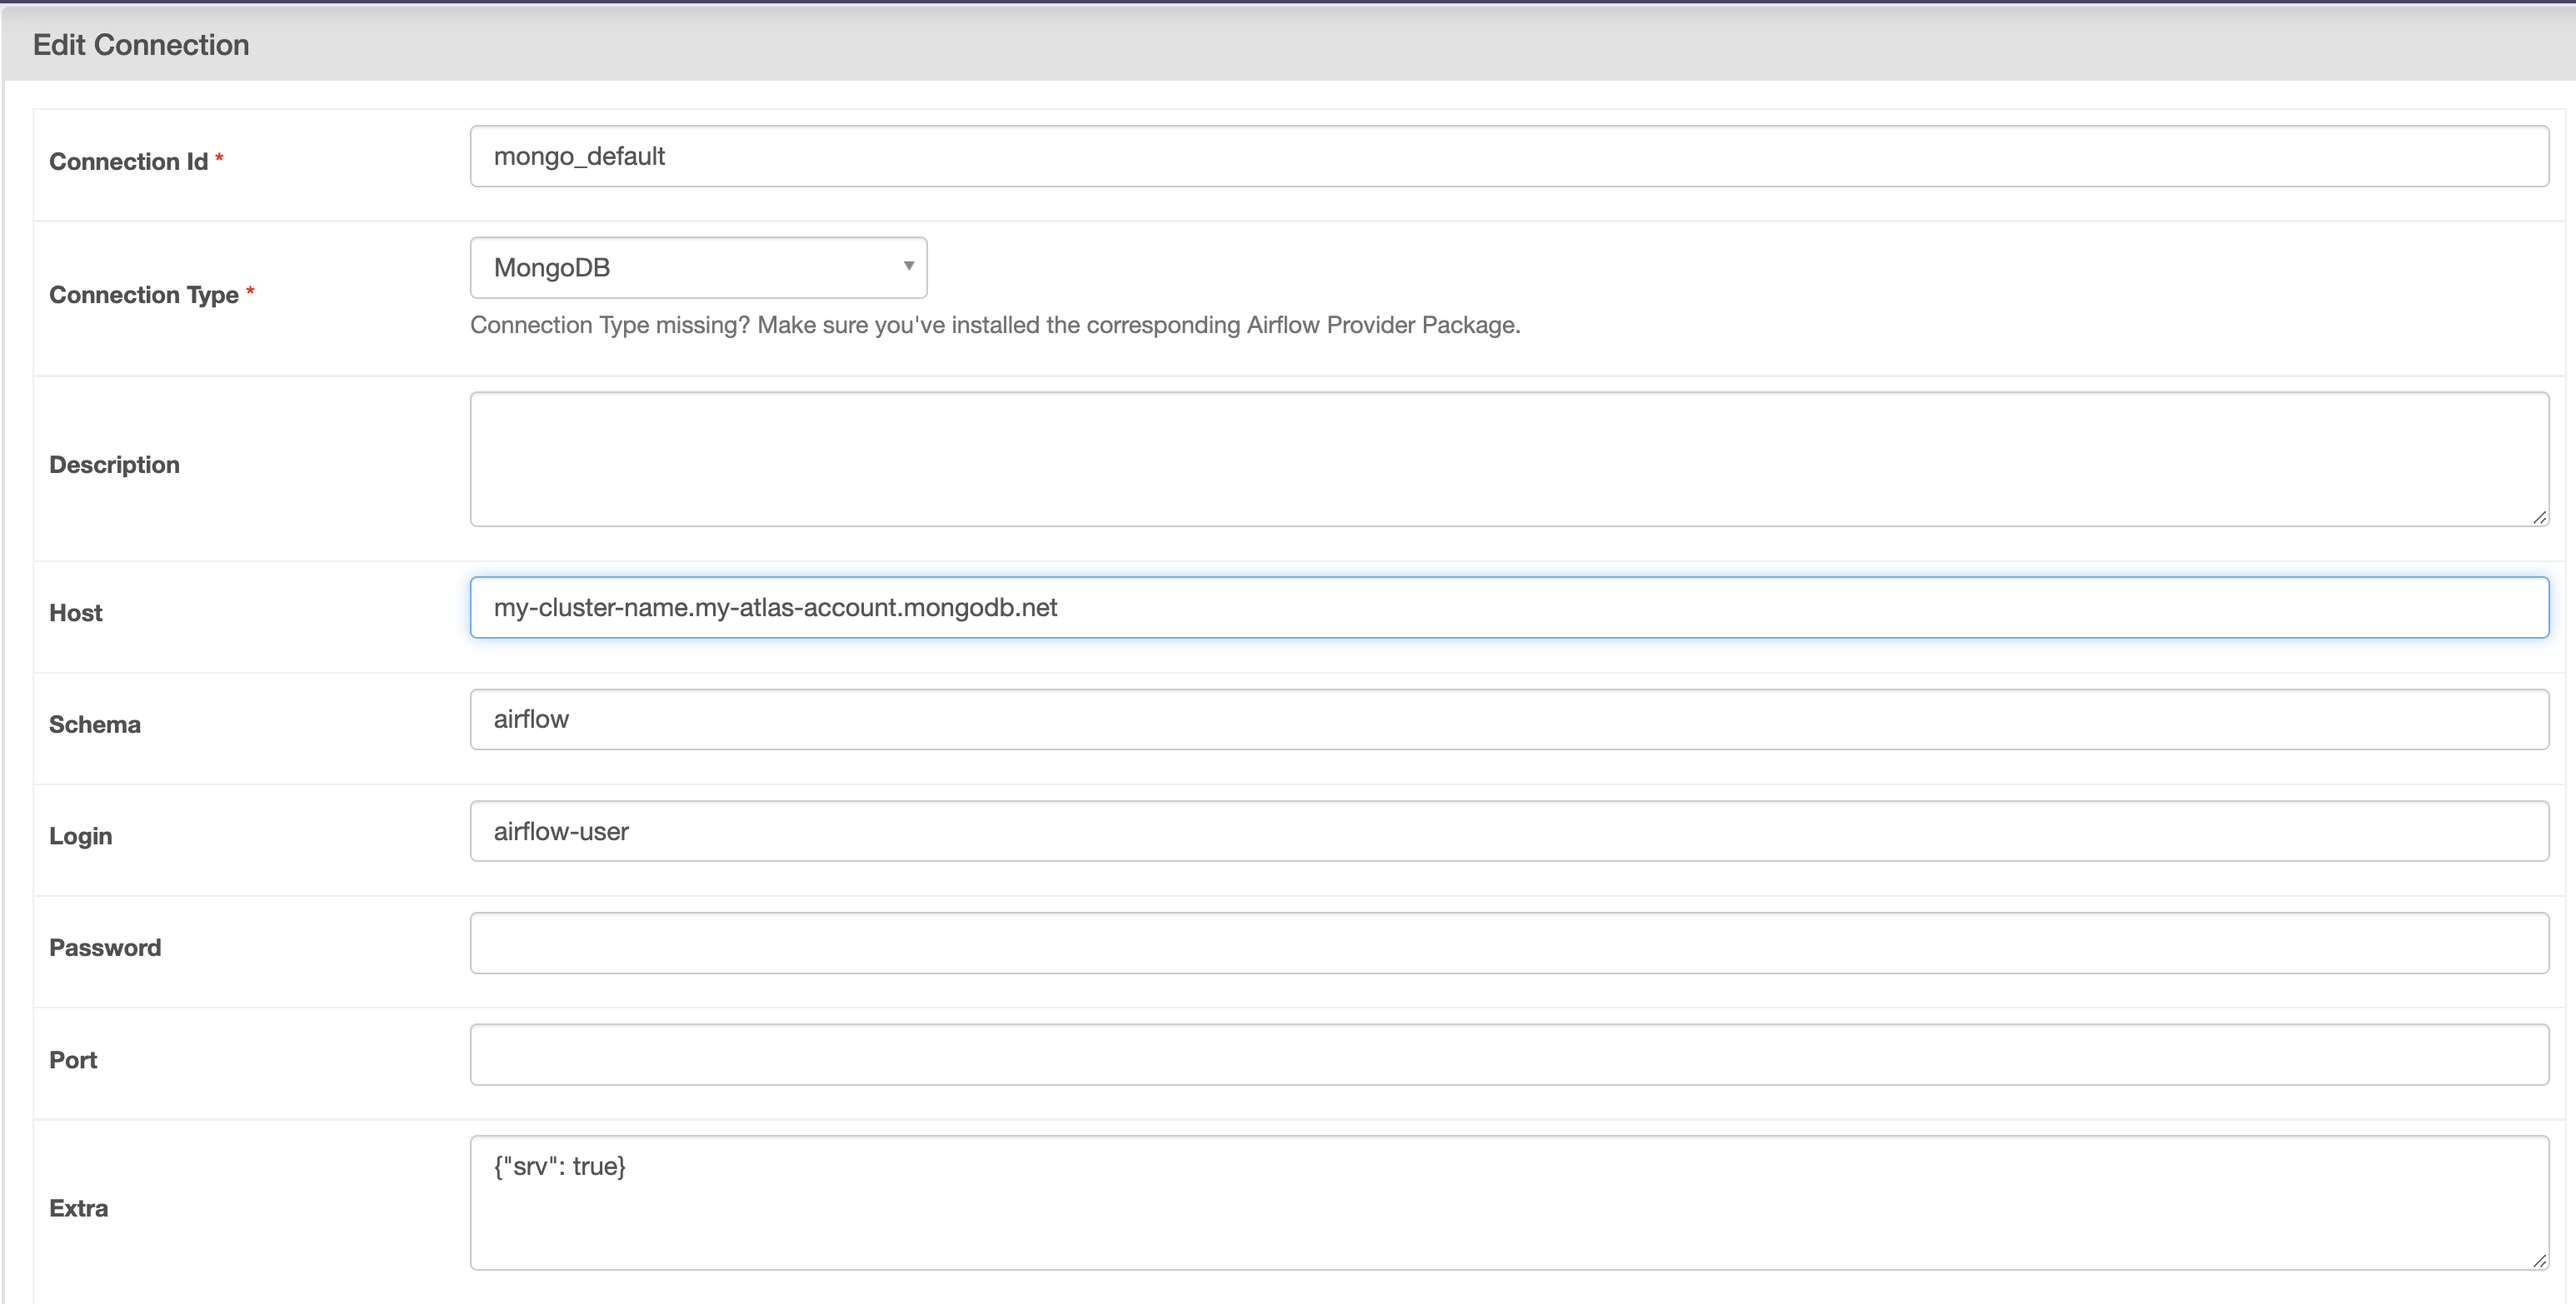
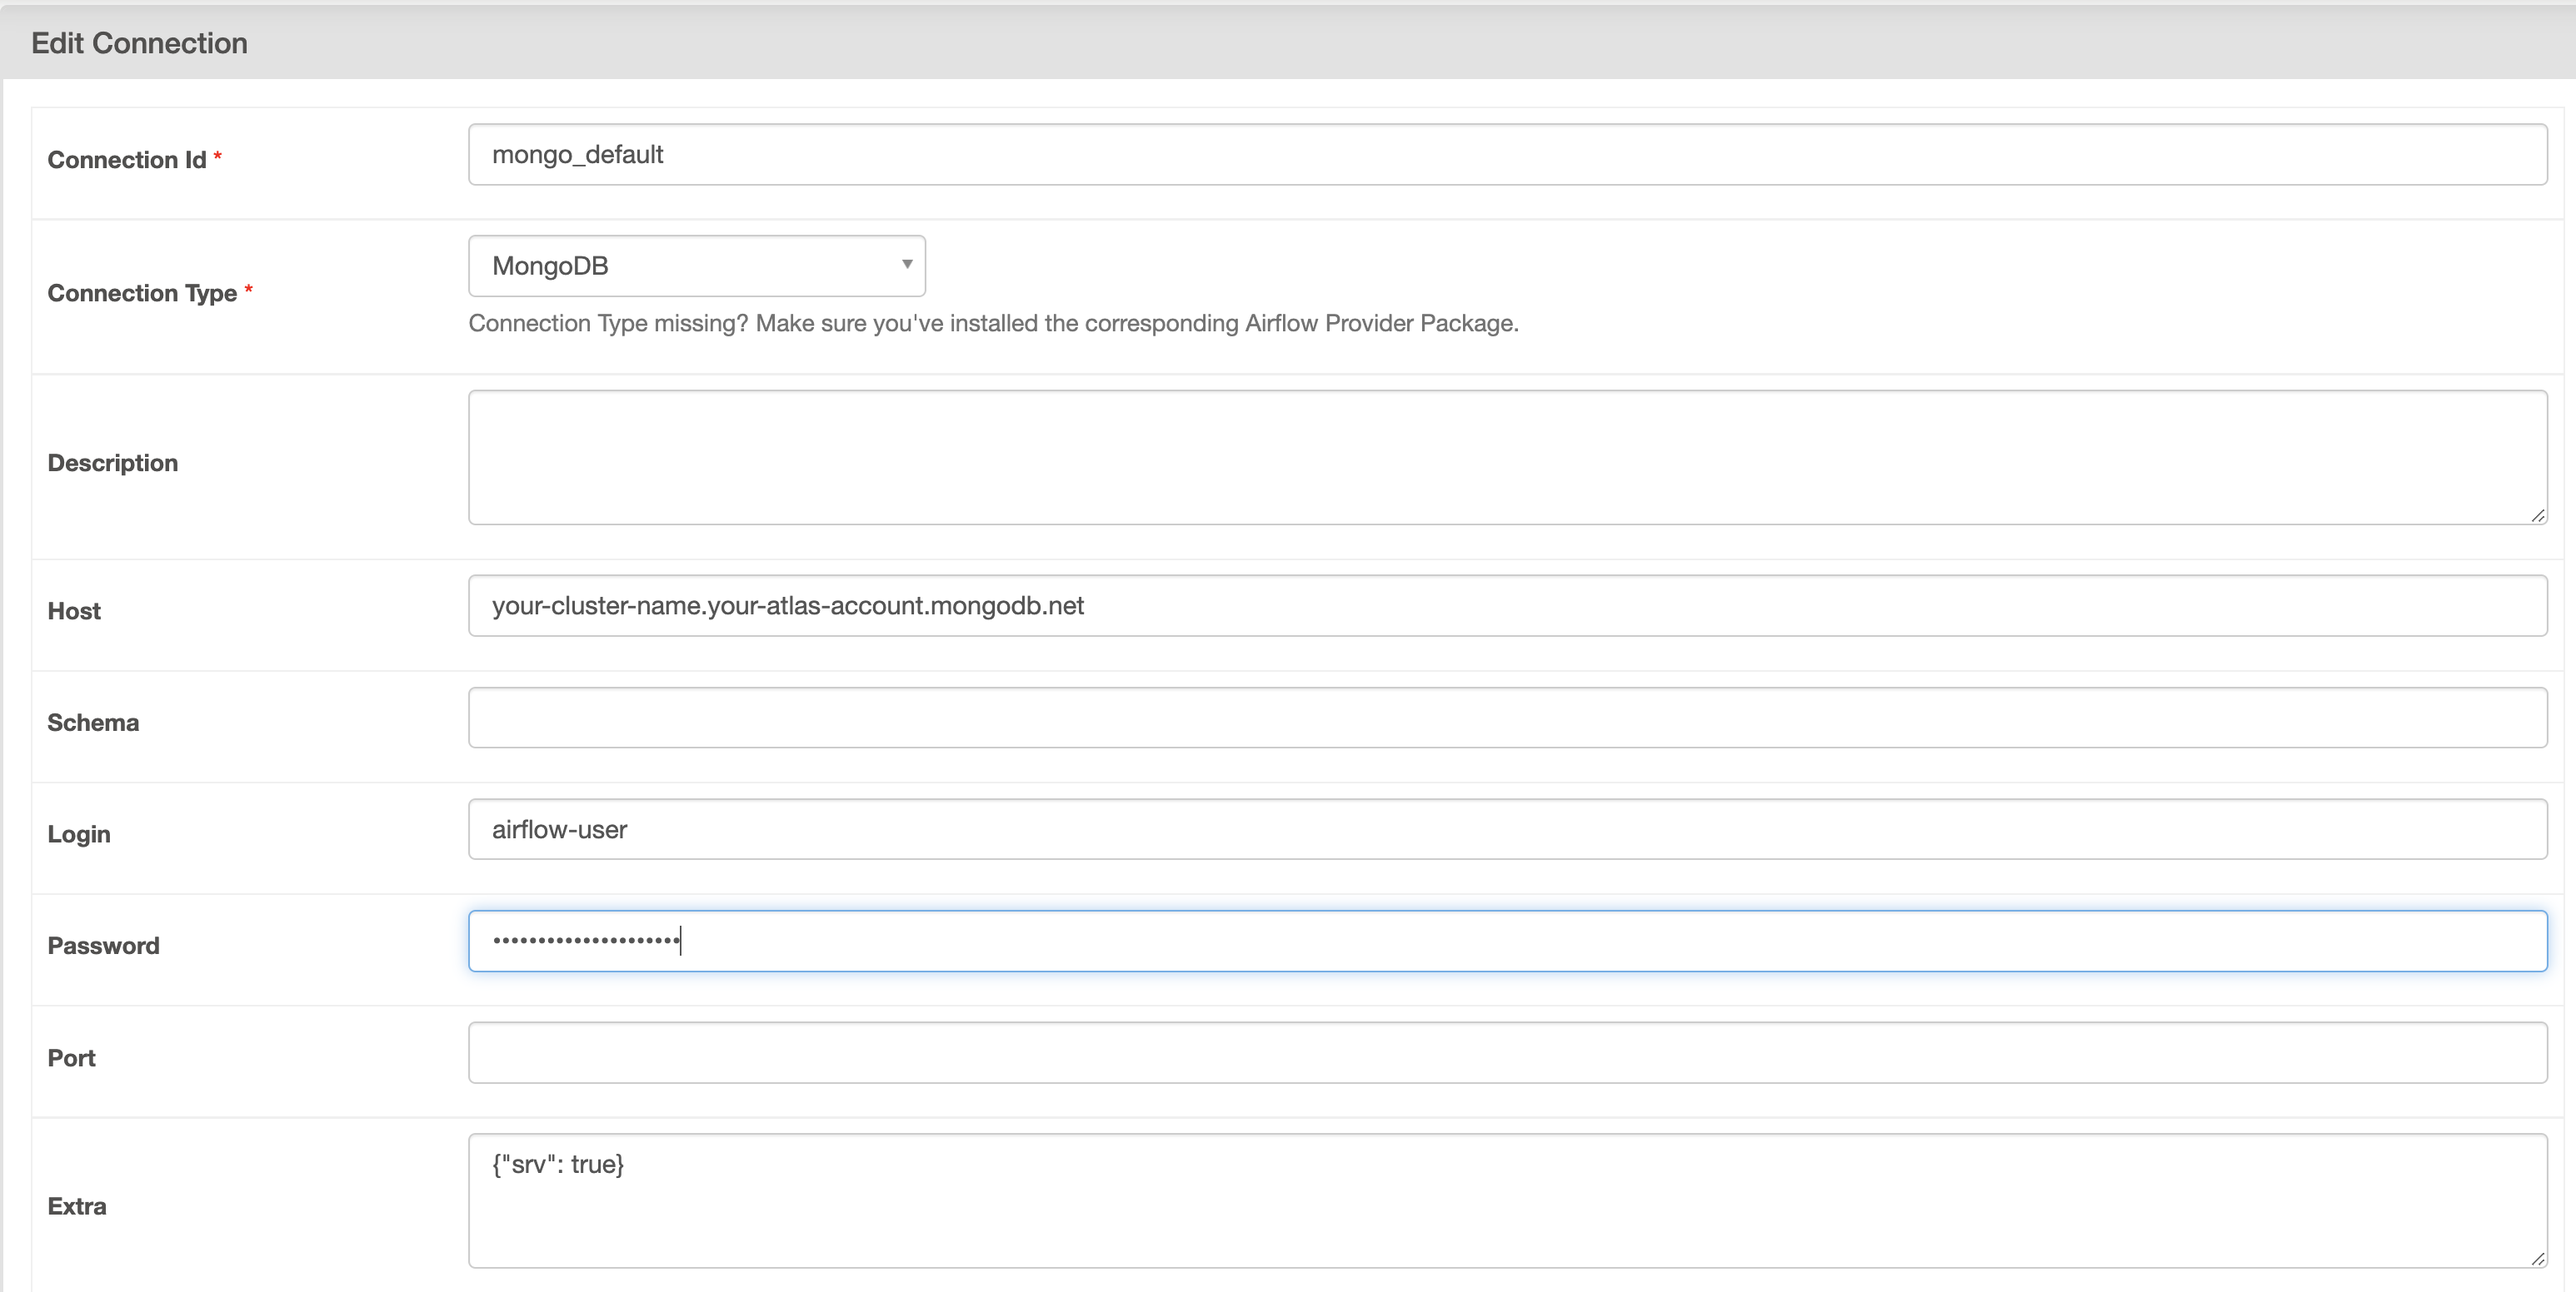
Update screenshots and atlas configuration step

diff --git a/learn/airflow-mongodb.md b/learn/airflow-mongodb.md
@@ -11,7 +11,7 @@ id: "airflow-mongodb"
 - Automating database administration operations.
 - Batch data pipelines.
 
-In this tutorial, you'll learn how to use Airflow to load data from an API into MongoDB and analyze that data using MongoDB Charts.
+In this tutorial, you'll learn how to use Airflow to load data from an API into MongoDB.
 
 :::note
 
@@ -27,29 +27,27 @@ This tutorial takes approximately 30 minutes to complete.
 
 To get the most out of this tutorial, make sure you have an understanding of:
 
-- The basics of MongoDB. See [].
+- The basics of MongoDB. See [Getting started](https://www.mongodb.com/docs/manual/tutorial/getting-started/).
 - Airflow fundamentals, such as writing DAGs and defining tasks. See [Get started with Apache Airflow](get-started-with-airflow.md).
 - Airflow operators. See [Operators 101](what-is-an-operator.md).
-- Airflow connections. See [Managing your Connections in Apache Airflow](connections.md).
+- Airflow connections. See [Managing your connections in Apache Airflow](connections.md).
 
 ## Prerequisites
 
 To complete this tutorial, you need:
 
-- A MongoDB cluster. If you don't already have a cluster, we recommend using [MongoDB Atlas](https://www.mongodb.com/cloud/atlas/register), a hosted MongoDB cluster with integrated data services that offers a free trial.
+- A MongoDB cluster. We recommend using [MongoDB Atlas](https://www.mongodb.com/cloud/atlas/register), a hosted MongoDB cluster with integrated data services that offers a free trial.
 - The [Astro CLI](https://docs.astronomer.io/astro/cli/get-started).
 
-## Step 1: Create a MongoDB Atlas cluster and database
+## Step 1: Configure your MongoDB Atlas cluster and database
 
-If you are new to MongoDB, register for a [MongoDB Atlas account](https://www.mongodb.com/cloud/atlas/register) and follow the quickstart instructions to create a free cluster. In the cluster setup, create a database user with a password and add your IP address to the IP access list so that your local Airflow project will be able to access MongoDB. 
+First you will need to configure your MongoDB Atlas cluster so Airflow can connect to it.
 
-Once your cluster is running, go to **Collections** and create a new database.
+1. In your MongoDB Atlas account under **Security**, go to **Database Access** and create a database user with a password. Make sure the user has privileges to write data to the database.
 
-![Mongo database](/img/tutorials/mongo_create_database.png)
+    ![Mongo user](/img/tutorials/mongo_create_user.png)
 
-For more instructions, see [Get started with Atlas](https://www.mongodb.com/docs/atlas/getting-started/).
-
-If you already have a MongoDB cluster you can skip this step.
+2. Go to **Security** -> **Network Access** and add your IP address to the IP access list. 
 
 ## Step 2: Configure your Astro project
 
@@ -83,7 +81,6 @@ Add two connections that Airflow will use to connect to MongoDB and the API prov
 1. Create a new connection named `mongo_default` and choose the `MongoDB` connection type. Enter the following information: 
 
     - **Host:** Your MongoDB Atlas host name
-    - **Schema:** Your MongoDB database name
     - **Login:** Your database user ID
     - **Password:** Your database user password
     - **Extra:** {"srv": true}
@@ -91,6 +88,8 @@ Add two connections that Airflow will use to connect to MongoDB and the API prov
     Your connection should look something like this:
 
     ![Mongo connection](/img/tutorials/mongo_airflow_connection.png)
+
+    If you don't know your MongoDB Atlas host name, go to your database in the Atlas UI and click on **Connect**. Any of the connection options in this section will give you a connection URI that will include your host name.
     
     For more on connecting to your MongoDB cluster, see [Connect to a database deployment](https://www.mongodb.com/docs/atlas/connect-to-database-deployment/).
 
@@ -116,7 +115,7 @@ from datetime import datetime,timedelta
 def uploadtomongo(ti, **context):
     hook = MongoHook(mongo_conn_id='mongo_default')
     client = hook.get_conn()
-    db = client.MyDB
+    db = client.MyDB # Replace "MyDB" if you want to load data to a different database
     currency_collection=db.currency_collection
     print(f"Connected to MongoDB - {client.server_info()}")
     d=json.loads(context["result"])
@@ -149,7 +148,7 @@ with DAG(
     t1 >> t2
 ```
 
-This DAG uses the SimpleHttpOperator to get currency data from an API, and a PythonOperator to run a Python function that uses the MongoHook to load the data into MongoDB.
+This DAG uses the SimpleHttpOperator to get currency data from an API, and a PythonOperator to run a Python function that uses the MongoHook to load the data into MongoDB. The data will be loaded as a new collection in a database called `MyDB`.
 
 ## Step 5: Run the DAG and review the data
 
@@ -160,3 +159,5 @@ In the MongoDB Atlas UI, go to your cluster and click **Collections** to view th
 ![Mongo Results](/img/tutorials/mongo_loaded_data.png)
 
 ## Conclusion
+
+Congratulations! You now know how to use Airflow to load data to your MongoDB cluster. A great next step is to analyze that data using MongoDB Charts in Mongo Atlas. For more on this, see Mongo's complementary [tutorial](https://www.mongodb.com/developer/products/mongodb/mongodb-apache-airflow/).
